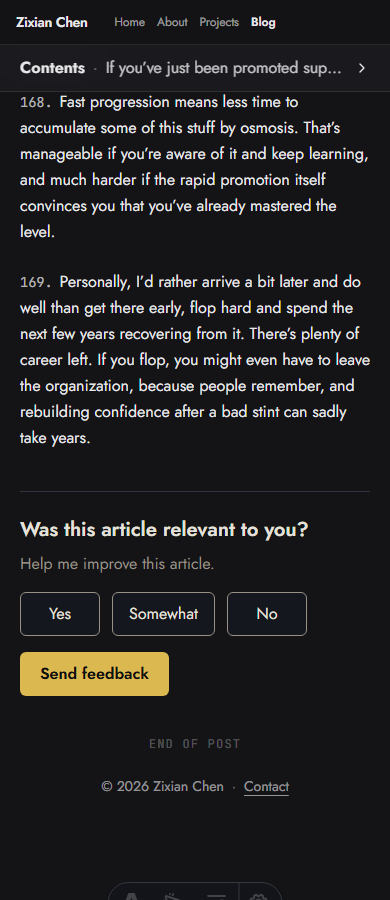
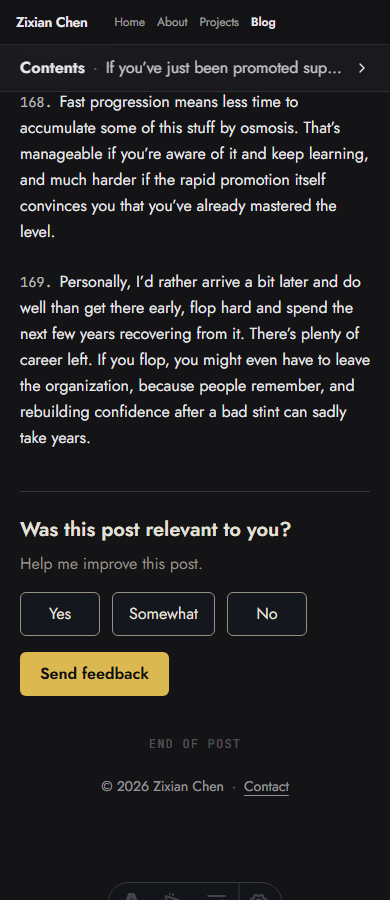
fix: call blog entries posts in feedback

Changed region(s): [[0.2462, 0.56, 0.8, 0.6533]]

diff --git a/tests/feedback/surveys.spec.ts b/tests/feedback/surveys.spec.ts
@@ -13,7 +13,7 @@ const survey = {
 		{
 			id: 'clarity',
 			type: 'single_choice',
-			question: 'Was this article relevant to you?',
+			question: 'Was this post relevant to you?',
 			choices: ['Yes', 'Somewhat', 'No'],
 		},
 		{ id: 'detail', type: 'open', question: 'What could make it more useful?', optional: true },
@@ -96,7 +96,7 @@ async function interceptPostHog(page: Page, blocked = false) {
 
 const article = '/blog/so-you-want-bigger-job';
 const otherArticle = '/blog/adding-backblaze-b2-bucket-to-coolify';
-const section = (page: Page) => page.getByRole('region', { name: 'Article feedback' });
+const section = (page: Page) => page.getByRole('region', { name: 'Post feedback' });
 async function choose(page: Page, answer = 'Somewhat') {
 	await expect(section(page)).toBeVisible();
 	await section(page).getByText(answer, { exact: true }).click();

diff --git a/docs/blog-feedback-audit.md b/docs/blog-feedback-audit.md
@@ -11,7 +11,7 @@ Reviewed 11 September 2026. This is a focused pattern audit, not evidence that a
 
 ## Chosen interaction
 
-An inline form immediately after the article, before series/related navigation. The approved wording is �Was this article relevant to you?� with Yes / Somewhat / No. All answers have equal visual weight. A visible accent-filled Send feedback button makes the action clear; choosing an answer enables it and reveals an optional comment. The explicit send adds one action compared with one-click voting, but avoids recording accidental choices and sends one complete response rather than stitching partial events together.
+An inline form immediately after the article, before series/related navigation. The approved wording is �Was this post relevant to you?� with Yes / Somewhat / No. All answers have equal visual weight. A visible accent-filled Send feedback button makes the action clear; choosing an answer enables it and reveals an optional comment. The explicit send adds one action compared with one-click voting, but avoids recording accidental choices and sends one complete response rather than stitching partial events together.
 
 Native radio semantics support keyboard navigation. Theme tokens support both blog themes. The form confirms only an accepted capture response, preserves failed submissions for retry, remembers successful completion per article in browser storage, and counts impressions only when visible. No popup, forced rating, public vote totals, login, or new Worker endpoint.
 
